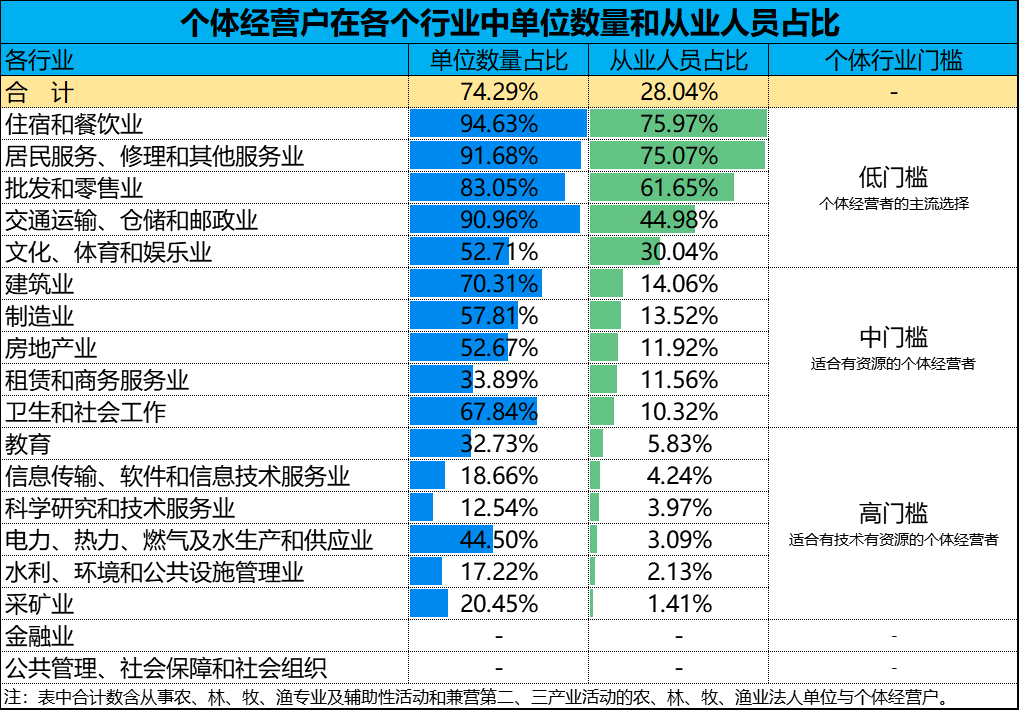
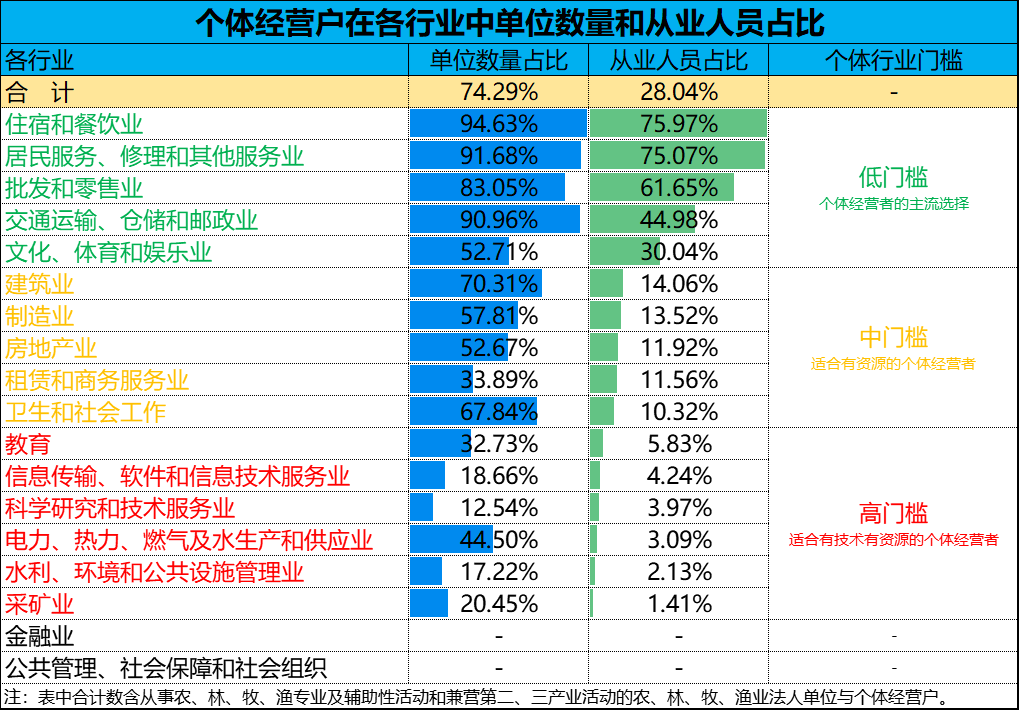
1

diff --git a/Economic_census/README.md b/Economic_census/README.md
@@ -6,9 +6,6 @@
 
 ![整体][001]
 
-> :interrobang: 
-> 这次普查动用了全国160多万基层普查人员，采集的数据应该是很多的，但公开的数据真的不多。（ :interrobang: 为我的临时感言，下同）
-
 ## 一. 对象
 
 ![对象][002]
@@ -41,25 +38,14 @@
 
 ![总体单位数量][005]
 
-> :interrobang: 
-> 这应该是国家大力倡导发展第三产业的结果。
-
 ### 2. 产业活动单位
 
 ![产业活动单位][006]
-
-> :interrobang: 
-> 第三产业规模越高，社会真的就就越进步吗？
 
 ### 3. 个体经营户
 
 ![个体经营户.单位数量][007]
 ![个体经营户.从业人数][008]
-
-> :interrobang: 
-> 1. 个体经营户的经营内容主要还是“衣食住行用”，第三产业的差异化服务，依然是个体经营户的首选。
-> 2. 一个个体经营户平均需要2.37人，相对于批发和零售业，住宿和餐饮业平均每个单位需要更多的人。
-> 3. 全国有1.5亿人从事个体经营，其中46.2%为女性(53.8%为男性)。
 
 ### 4. 境内第二、三产业全部法人单位
 
@@ -108,22 +94,42 @@
 
 ![汇报][028]
 
-## 五 :interrobang: 
+## 五 个人观点
 
-![企业法人关注][137]
-![企业法人关注][139]
+### 1. 关于法人单位
 
-![个体户关注的][134]
-![个体户关注的][135]
+#### 1) 部分企业类型对比
 
-![普通从业者关注的][138]
-![女性关注的][136]
+![企业法人关注1][139]
 
+#### 2) 各行业压力
 
+![企业法人关注2][137]
 
+### 2. 关于个体经营户
 
+#### 1) 各行业门槛
 
+![个体户关注的1][134]
 
+> :interrobang: 
+> 1. 个体经营户的经营内容主要还是“衣食住行用”，第三产业的差异化服务，依然是个体经营户的首选。
+> 2. 一个个体经营户平均需要2.37人，相对于批发和零售业，住宿和餐饮业平均每个单位需要更多的人。
+> 3. 全国有1.5亿人从事个体经营，其中46.2%为女性(53.8%为男性)。
+
+#### 2) 各行业压力
+
+![个体户关注的2][135]
+
+### 3. 关于从业者
+
+#### 1) 各行业从业者的薪酬可能性
+
+![普通从业者关注的1][138]
+
+#### 2) 女性从业者的去向
+
+![女性从业者关注的2][136]
 
 <!--附件.图片链接-->
 [001]:https://github.com/446020169/Open/raw/master/Economic_census/image/001.jpg
